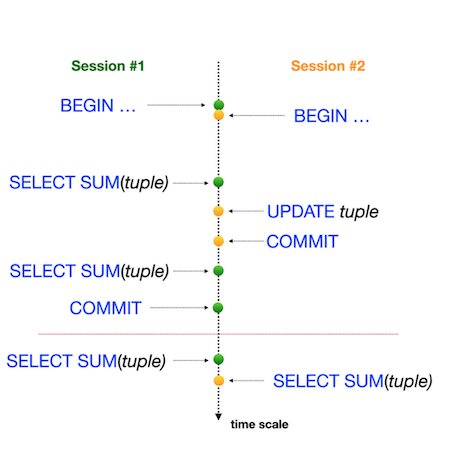
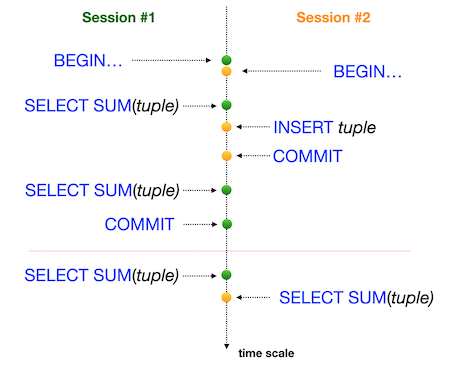
Init commit

diff --git a/README.md b/README.md
@@ -277,8 +277,7 @@ Actually, we need two active sessions (i.e. 2 parallel sessions in the command l
 | ------ | ------ |
 | Let's check one of the famous "phantom reads" database patterns, but under the `READ COMMITTED` isolation level. You can see a graphical representation of this anomaly on a picture. The horizontal red line represents the final results after all sequential steps for both Sessions. | ![D08_10](misc/images/D08_10.png) |
 
-Please summarize all ratings for all pizzerias in one transaction mode for Session #1 and then `UPDATE` the rating to 1 value for "Pizza Hut" restaurant in Session #2 (in the same order as in the picture).
-
+Please summarize all ratings for all pizzerias in one transaction mode for Session #1 and then make `INSERT` of the new restaurant 'Kazan Pizza' with rating 5 and ID=10 in Session #2 (in the same order as in the picture).
  
 
 ## Chapter X
@@ -300,7 +299,7 @@ Actually, we need two active sessions (i.e. 2 parallel sessions in the command l
 | ------ | ------ |
 | Let's check one of the famous "Phantom Reads" database patterns, but under the isolation level `REPEATABLE READ`. You can see a graphical representation of this anomaly on a picture. The horizontal red line represents the final results after all sequential steps for both Sessions. | ![D08_11](misc/images/D08_11.png) |
 
-Please summarize all ratings for all pizzerias in one transaction mode for Session #1 and then `UPDATE` the rating to 5 value for "Pizza Hut" restaurant in Session #2 (in the same order as in the picture).
+Please summarize all ratings for all pizzerias in one transaction mode for Session #1 and then make `INSERT` of the new restaurant 'Kazan Pizza 2' with rating 4 and ID=11 in Session #2 (in the same order as in the picture).
 
 ## Chapter XI
 ## Exercise 07 - Deadlock
